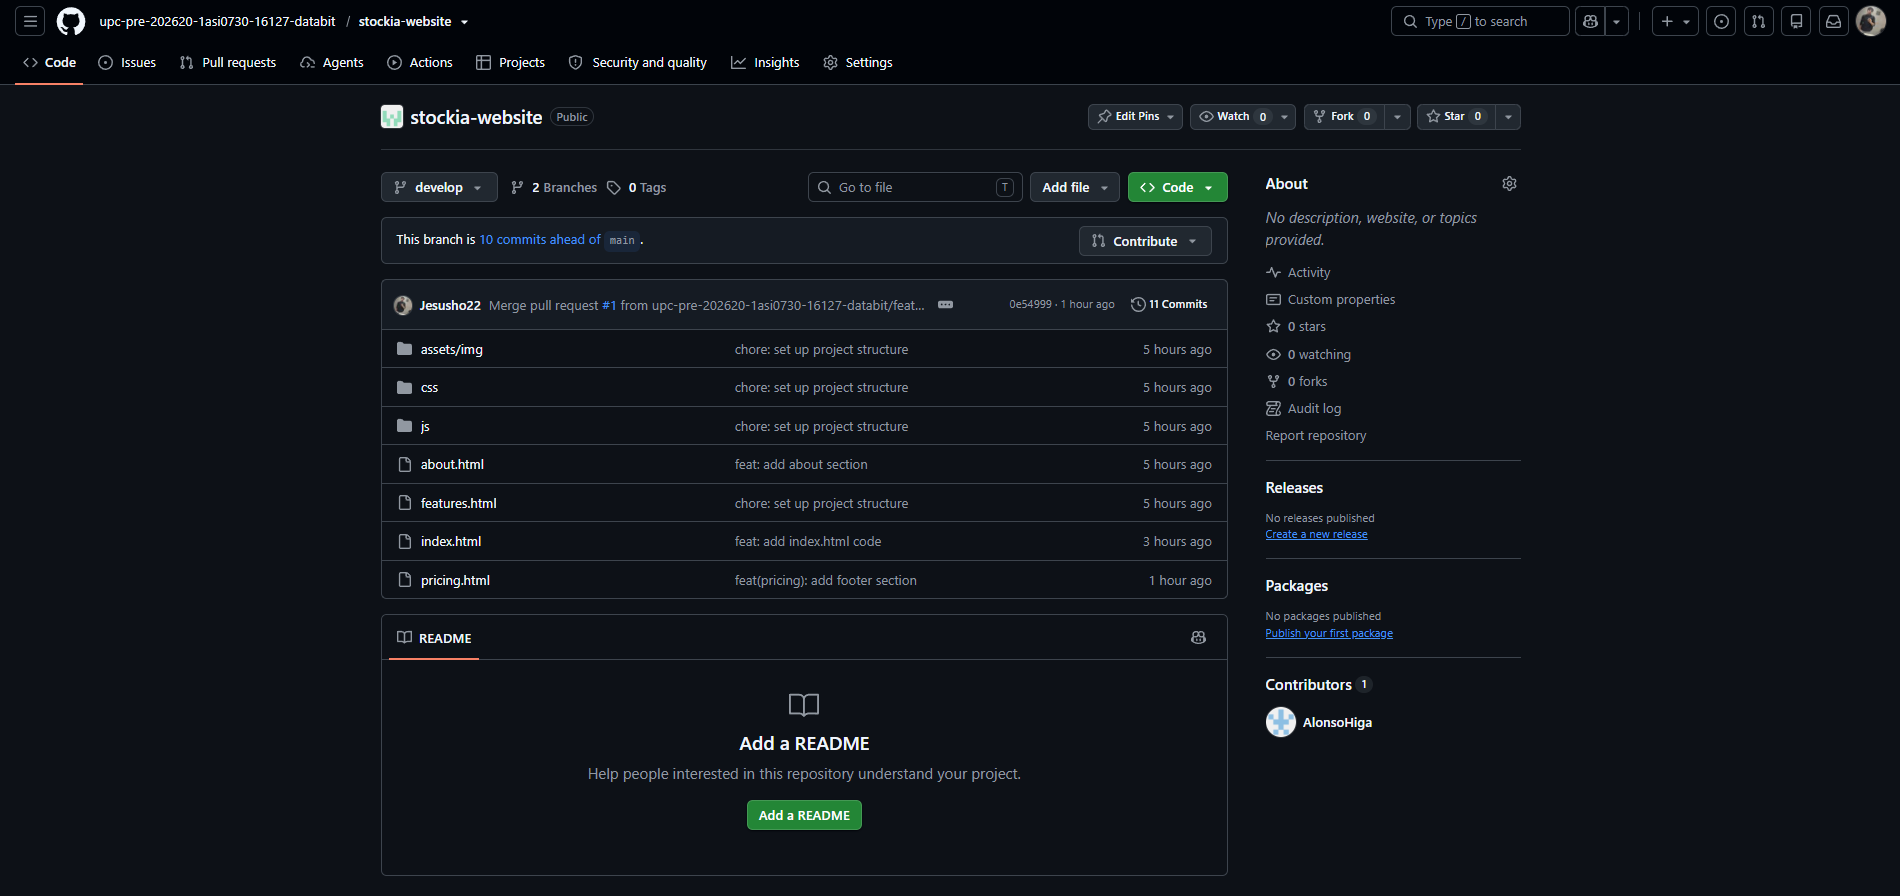
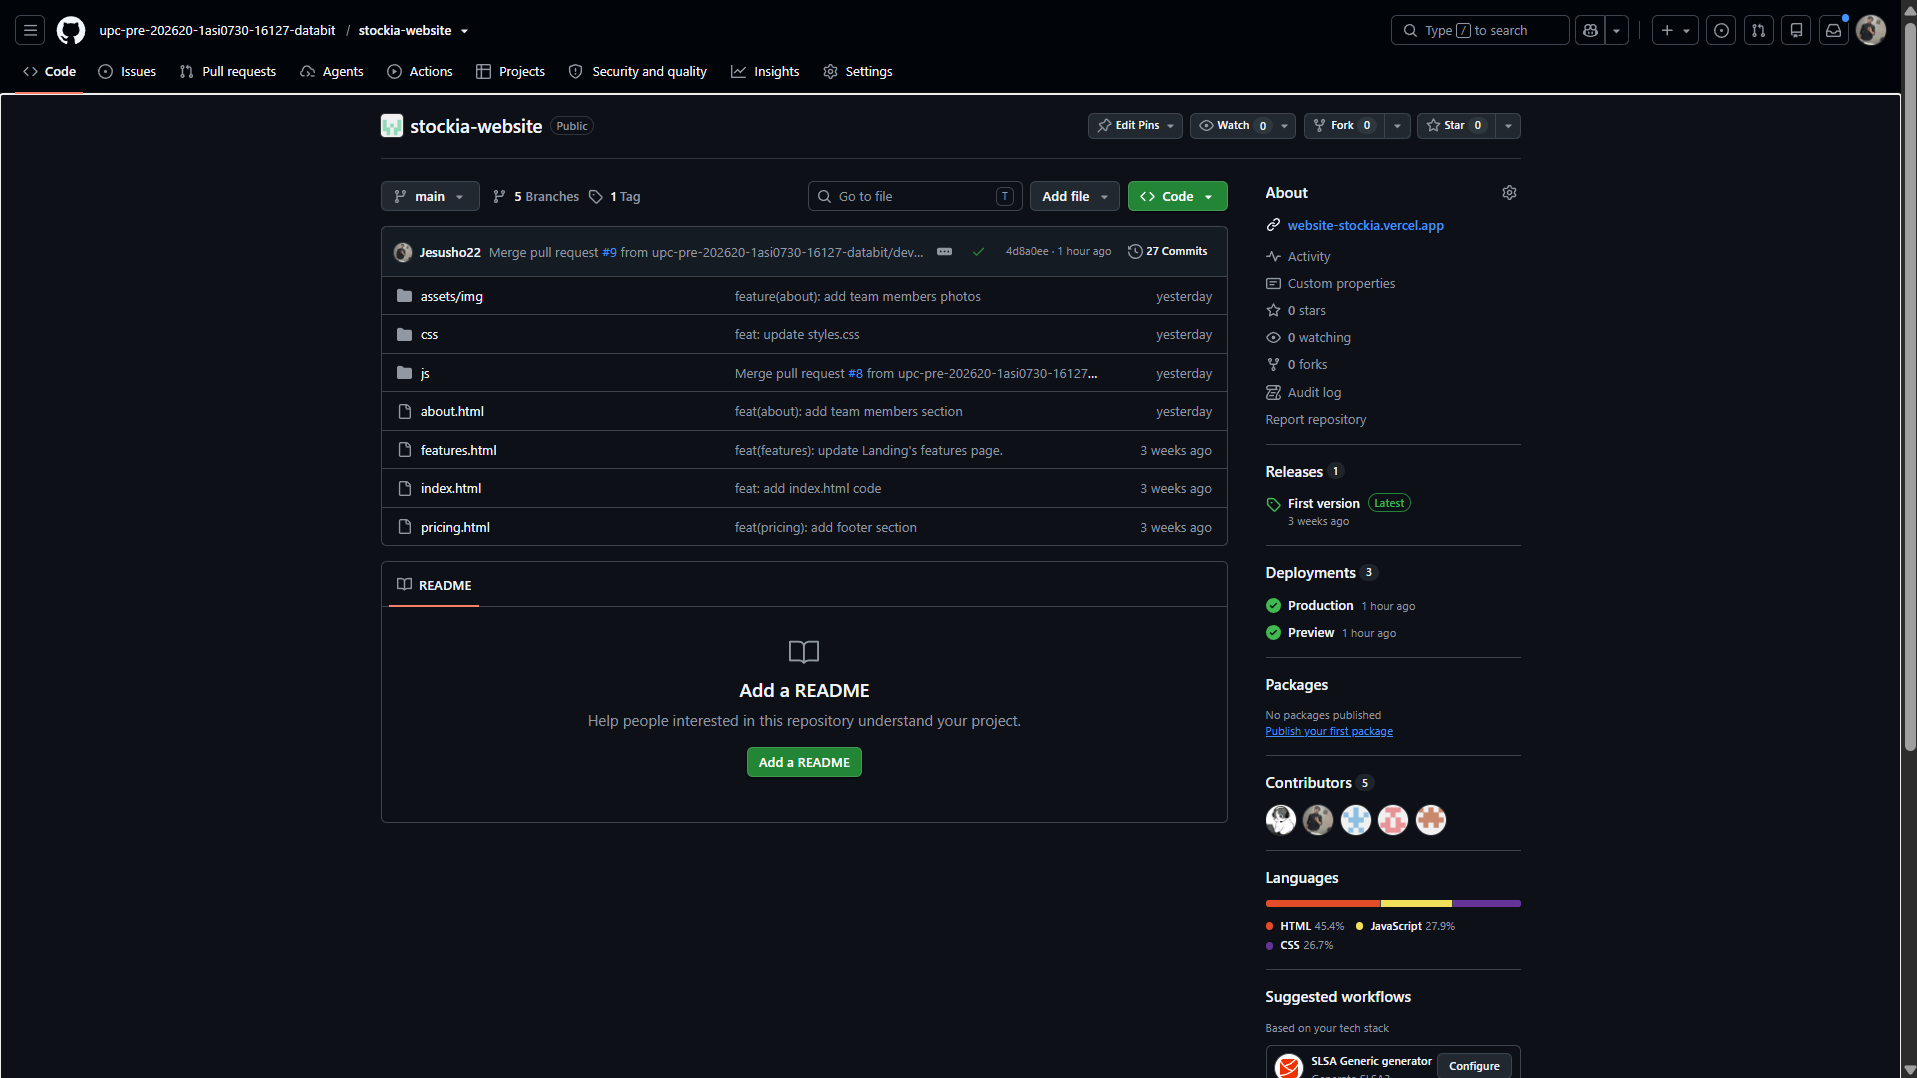
docs(chapter-5): update sprint 1 evidences

diff --git a/docs/09-chapter-5.md b/docs/09-chapter-5.md
@@ -487,165 +487,182 @@ La Landing Page se integró en el repositorio de la organización siguiendo GitF
 
 #### **5.2.1.5. Execution Evidence for Sprint Review**
 En el Sprint 1 se implementaron las cuatro páginas de la Landing Page de StockIA. A continuación se presenta cada sección publicada junto con la User Story o el requisito que la respalda:
- 
-1. **Barra de navegación (US07, US08):** menú común a las cuatro páginas con los enlaces Inicio, Características, Precios y Nosotros, el selector de idioma ES/EN y el botón "Solicitar demo".
+
+1. **Barra de navegación (US10, US13, US14):** menú común a las cuatro páginas con los enlaces Inicio, Características, Precios y Nosotros, el selector de idioma ES/EN y el botón "Solicitar demo".
 <p align="center">
   <img src="../assets/chapter-5/01-header-navbar.png" width="800" alt="Barra de navegación"/>
-  <br/><i>Barra de navegación — US07 y US08</i>
+  <br/><i>Barra de navegación — US10, US13 y US14</i>
 </p>
-2. **Hero con mockup del dashboard (US01):** propuesta de valor, CTA principal y secundario, tres indicadores clave y la vista previa ilustrativa del dashboard.
+
+2. **Hero con mockup del dashboard (US01, US02):** propuesta de valor, CTA principal y secundario y la vista previa ilustrativa del dashboard.
 <p align="center">
   <img src="../assets/chapter-5/02-hero-mockup-dashboard.png" width="800" alt="Hero con mockup del dashboard"/>
-  <br/><i>Hero con mockup del dashboard — US01</i>
+  <br/><i>Hero con mockup del dashboard — US01 y US02</i>
 </p>
-3. **Barra de estadísticas (US01, RNF07):** los cuatro indicadores de impacto y la nota que identifica las cifras referenciales.
+
+3. **Barra de estadísticas (US03, RNF08):** los cuatro indicadores de impacto y la nota que identifica las cifras referenciales.
 <p align="center">
   <img src="../assets/chapter-5/03-barra-estadisticas.png" width="800" alt="Barra de estadísticas"/>
-  <br/><i>Barra de estadísticas — US01 y RNF07</i>
+  <br/><i>Barra de estadísticas — US03 y RNF08</i>
 </p>
-4. **"¿Para quién es StockIA?" (US02):** una tarjeta para dueños y CEOs y otra para administradores y jefes de cocina.
+
+4. **"¿Para quién es StockIA?" (US04):** una tarjeta para dueños y CEOs y otra para administradores y jefes de cocina.
 <p align="center">
   <img src="../assets/chapter-5/04-para-quien-es-stockia.png" width="800" alt="Sección ¿Para quién es StockIA?"/>
-  <br/><i>Sección "¿Para quién es StockIA?" — US02</i>
+  <br/><i>Sección "¿Para quién es StockIA?" — US04</i>
 </p>
-5. **Funcionalidades del Home (US02):** seis tarjetas de funcionalidades y el botón "Ver todas las características →".
+
+5. **Funcionalidades del Home (US05):** seis tarjetas de funcionalidades y el botón "Ver todas las características".
 <p align="center">
   <img src="../assets/chapter-5/05-grid-funcionalidades.png" width="800" alt="Funcionalidades del Home"/>
-  <br/><i>Funcionalidades del Home — US02</i>
+  <br/><i>Funcionalidades del Home — US05</i>
 </p>
-6. **"Más que un inventario" (US03):** las tres tarjetas de diferenciadores de StockIA.
+
+6. **"Más que un inventario" (US06):** las tres tarjetas de diferenciadores de StockIA.
 <p align="center">
   <img src="../assets/chapter-5/06-mas-que-un-inventario.png" width="800" alt="Diferenciadores"/>
-  <br/><i>Diferenciadores — US03</i>
+  <br/><i>Diferenciadores — US06</i>
 </p>
-7. **Integraciones en evaluación (US03, RNF07):** cuatro tarjetas con la etiqueta "En evaluación" y la nota de que la integración definitiva aún no se ha elegido.
+
+7. **Integraciones en evaluación (US07, RNF08):** cuatro tarjetas con la etiqueta "En evaluación" y la nota de que la integración definitiva aún no se ha elegido.
 <p align="center">
   <img src="../assets/chapter-5/07-integraciones-externas.png" width="800" alt="Integraciones en evaluación"/>
-  <br/><i>Integraciones en evaluación — US03 y RNF07</i>
+  <br/><i>Integraciones en evaluación — US07 y RNF08</i>
 </p>
-8. **Portafolio (US03):** vistas ilustrativas de la plataforma con pestañas que resaltan la categoría activa.
+
+8. **Portafolio (US08):** vistas ilustrativas de la plataforma con pestañas Inventario e IA & IoT.
 <p align="center">
   <img src="../assets/chapter-5/08-seccion-portafolio.png" width="800" alt="Portafolio"/>
-  <br/><i>Portafolio — US03</i>
+  <br/><i>Portafolio — US08</i>
 </p>
-9. **Video del producto (US03):** bloque "Video demostrativo próximamente" sin enlaces rotos.
+
+9. **Video del producto (US09):** bloque "Video demostrativo próximamente", con el iframe de YouTube preparado para su reemplazo.
 <p align="center">
   <img src="../assets/chapter-5/09-placeholder-video.png" width="800" alt="Bloque del video del producto"/>
-  <br/><i>Bloque del video del producto — US03</i>
+  <br/><i>Bloque del video del producto — US09</i>
 </p>
-10. **features.html (US02):** detalle de los seis módulos y la sección "Cómo funciona" con cuatro pasos.
+
+10. **features.html (US11, US12):** detalle de las seis funcionalidades y la sección "Cómo funciona" con cuatro pasos.
 <p align="center">
   <img src="../assets/chapter-5/10-features-grid-completo.png" width="800" alt="features.html"/>
-  <br/><i>features.html — US02</i>
+  <br/><i>features.html — US11 y US12</i>
 </p>
-11. **pricing.html (US04, RNF07):** planes Esencial, Profesional e IoT Completo con el interruptor mensual/anual, la nota de precios de ejemplo y el acordeón de preguntas frecuentes.
+
+11. **pricing.html (US15, US16, US17, RNF08):** planes Esencial, Profesional e IoT Completo con el interruptor mensual/anual, la nota de precios de ejemplo y el acordeón de preguntas frecuentes.
 <p align="center">
   <img src="../assets/chapter-5/11-pricing-planes-y-faq.png" width="800" alt="pricing.html"/>
-  <br/><i>pricing.html — US04 y RNF07</i>
+  <br/><i>pricing.html — US15, US16, US17 y RNF08</i>
 </p>
-12. **about.html (US05, US06):** misión, visión, valores, fichas del equipo y formulario de solicitud de demo.
+
+12. **about.html (US18, US19, US20):** misión, visión, valores, fichas del equipo y formulario de solicitud de demo.
 <p align="center">
   <img src="../assets/chapter-5/12-about-mision-vision-equipo-formulario.png" width="800" alt="about.html"/>
-  <br/><i>about.html — US05 y US06</i>
+  <br/><i>about.html — US18, US19 y US20</i>
 </p>
-13. **Pie de página (US07):** columnas Producto, Empresa y Legal, comunes a las cuatro páginas.
+
+13. **Pie de página (US10, RNF03):** columnas Producto, Empresa y Legal, comunes a las cuatro páginas.
 <p align="center">
   <img src="../assets/chapter-5/13-seccion-footer.png" width="800" alt="Pie de página"/>
-  <br/><i>Pie de página — US07</i>
+  <br/><i>Pie de página — US10 y RNF03</i>
 </p>
+
 **Verificación de los requisitos no funcionales**
- 
-Los requisitos no funcionales del Sprint 1 se verificaron con el criterio medible definido en el Capítulo III:
- 
-| **RNF** | **Criterio medible** | **Herramienta de verificación** | **Evidencia** |
+
+| **RNF** | **Requisito** | **Herramienta de verificación** | **Evidencia** |
 | :--- | :--- | :--- | :--- |
-| RNF01 | Sin scroll horizontal a 360 px; breakpoints en 1024, 768 y 480 px | DevTools a 360, 768, 1024 y 1440 px | `rnf01-responsive.png` |
-| RNF02 | Contraste ≥ 4.5:1 en texto normal y ≥ 3:1 en texto grande | WebAIM Contrast Checker y Lighthouse Accessibility | `rnf02-lighthouse-accessibility.png` |
-| RNF03 | Lighthouse Performance móvil ≥ 90; LCP ≤ 2.5 s; CLS ≤ 0.1 | Lighthouse en modo móvil | `rnf03-lighthouse-performance.png` |
-| RNF04 | `title` ≤ 60 y `description` ≤ 160 caracteres, únicos por página; Lighthouse SEO ≥ 90 | Inspección del `<head>` y Lighthouse SEO | `rnf04-lighthouse-seo.png` |
-| RNF05 | Funcionamiento igual en Chrome, Edge, Firefox, Safari, Chrome Android y Safari iOS; 0 errores de consola | Matriz de pruebas manual | `rnf05-navegadores.png` |
-| RNF06 | Animaciones ≤ 500 ms; contenido visible sin IntersectionObserver | Revisión de `main.js` y prueba con el observador deshabilitado | `rnf06-animaciones.png` |
-| RNF07 | 100 % de cifras, precios y fichas de ejemplo con nota visible en ES/EN | Revisión de las cuatro páginas en ambos idiomas | Capturas 3, 7 y 11 de esta sección |
- 
+| RNF01 | Experiencia responsiva en móviles y tablets | DevTools a 390, 768, 1024 y 1440 px | `rnf01-responsive.png` |
+| RNF02 | Contraste y legibilidad accesible | WebAIM Contrast Checker y Lighthouse Accessibility | `rnf02-lighthouse-accessibility.png` |
+| RNF04 | Carga rápida del sitio estático | Lighthouse Performance en modo móvil | `rnf04-lighthouse-performance.png` |
+| RNF05 | Metadatos para buscadores | Inspección del `<head>` y Lighthouse SEO | `rnf05-lighthouse-seo.png` |
+| RNF06 | Compatibilidad con navegadores modernos | Matriz de pruebas en Chrome, Edge, Firefox y Safari | `rnf06-navegadores.png` |
+| RNF07 | Animaciones de entrada que no bloquean la interacción | Revisión de `main.js` y prueba sin IntersectionObserver | `rnf07-animaciones.png` |
+| RNF08 | Identificación del contenido pendiente | Revisión de las cuatro páginas en ES y EN | Capturas 3, 7 y 11 de esta sección |
+
 <p align="center">
   <img src="../assets/chapter-5/Lighthouse.png" width="500" alt="Reporte de Lighthouse"/>
-  <br/><i>Reporte de Lighthouse en modo móvil — RNF02, RNF03 y RNF04</i>
+  <br/><i>Reporte de Lighthouse en modo móvil — RNF02, RNF04 y RNF05</i>
 </p>
+
 Para finalizar, se muestra el repositorio de la Landing Page en la organización de GitHub:
- 
 <p align="center">
   <img src="../assets/chapter-5/14-repositorio-github.png" width="800" alt="Repositorio de la Landing Page"/>
   <br/><i>Repositorio <code>stockia-website</code> en la organización upc-pre-202620-1asi0730-16127-databit</i>
 </p>
 
 #### **5.2.1.6. Services Documentation Evidence for Sprint Review**
-La Landing Page es un sitio estático y en este Sprint no consume servicios de backend. Las interacciones que sí ejecutan lógica se resuelven en el navegador y se documentan a continuación, junto con la User Story que cubren. La recepción real de solicitudes de demo se implementará con el RESTful API.
- 
+La Landing Page es un sitio estático y en este Sprint no consume servicios de backend. Las interacciones que sí ejecutan lógica se resuelven en el navegador y se documentan a continuación, junto con la User Story que cubren.
+
 | **Endpoint / Interacción** | **Acción** | **Parámetros** | **Descripción del Response** | **User Story** |
 | :--- | :---: | :--- | :--- | :---: |
-| `about.html#contactForm` | **POST (simulado)** | `nombre`*, `restaurante`, `correo`*, `mensaje` (`*` obligatorios con `required` y `type="email"`) | El navegador bloquea el envío si falta un campo obligatorio o el correo no es válido. Con datos válidos, `preventDefault()` evita el envío real, el botón cambia a "✓ Enviado" y se deshabilita durante 3 segundos, y luego el formulario se limpia. | US06 |
-| Selector de idioma (`ES` / `EN`) | Lectura y escritura en `localStorage` | Clave `stockia-lang` con valor `es` o `en` | Aplica las traducciones a todos los elementos con `data-i18n` sin recargar la página y conserva el idioma al navegar entre páginas o volver al sitio. | US08 |
-| Interruptor mensual / anual (`pricing.html`) | Cálculo en el cliente | Estado del interruptor | Cambia los precios de S/ 0, 39 y 79 a S/ 0, 27 y 55 y viceversa, sin recargar la página. | US04 |
-| Preguntas frecuentes (`pricing.html`) | Interacción en el cliente | Pregunta seleccionada | Despliega la respuesta elegida y cierra la que estaba abierta. | US04 |
- 
+| `about.html#contactForm` | **POST (simulado)** | `nombre`*, `restaurante`, `correo`*, `mensaje` (`*` obligatorios con `required` y `type="email"`) | El navegador bloquea el envío si falta un campo obligatorio o el correo no es válido. Con datos válidos, `preventDefault()` evita el envío real, el botón cambia a "✓ Enviado" y se deshabilita durante 3 segundos, y luego el formulario se limpia. | US20 |
+| Selector de idioma (`ES` / `EN`) | Lectura y escritura en `localStorage` | Clave `stockia-lang` con valor `es` o `en` | Aplica las traducciones a todos los elementos con `data-i18n` sin recargar la página y conserva el idioma al navegar entre páginas. | US13, US14 |
+| Interruptor mensual / anual (`pricing.html`) | Cálculo en el cliente | Estado del interruptor | Cambia los precios mensuales a los anuales y viceversa, sin recargar la página. | US16 |
+| Preguntas frecuentes (`pricing.html`) | Interacción en el cliente | Pregunta seleccionada | Despliega la respuesta elegida y cierra la que estaba abierta. | US17 |
+
 * **Repositorio de la Landing Page:** https://github.com/upc-pre-202620-1asi0730-16127-databit/stockia-website
-* **Landing Page desplegada:** https://stockia-landing-giag.vercel.app/index.html
+* **Landing Page desplegada:** https://website-stockia.vercel.app/
 
 #### **5.2.1.7. Software Deployment Evidence for Sprint Review**
-La Landing Page se publicó en **Vercel** como sitio estático, servido desde su CDN global (TS04).
- 
+La Landing Page se publicó en **Vercel** como sitio estático, servido desde su CDN global, a partir del repositorio `stockia-website` de la organización.
+
 **Actividades de despliegue realizadas**
- 
-1. Se creó el proyecto en Vercel con el preset "Other", al tratarse de un sitio estático sin proceso de build.
-2. Se publicó la versión de producción desde la rama `develop` del repositorio de prototipo de la Landing Page; la vinculación del proyecto con el repositorio `stockia-website` de la organización, para el despliegue continuo, se planificó en TS08 del Sprint 2.
-3. Se verificaron las cuatro páginas (`index.html`, `features.html`, `pricing.html` y `about.html`) en el dominio público, incluidos los enlaces entre páginas y el cambio de idioma (T-TS04-2).
+
+1. Se creó el proyecto en Vercel con el preset "Other", al tratarse de un sitio estático sin proceso de build, y se vinculó al repositorio `upc-pre-202620-1asi0730-16127-databit/stockia-website`.
+2. Se activó el despliegue automático: cada cambio integrado en la rama de producción se publica sin pasos manuales, y cada Pull Request genera una URL de vista previa.
+3. Se verificaron las cuatro páginas (`index.html`, `features.html`, `pricing.html` y `about.html`) en el dominio público, incluidos los enlaces entre páginas y el cambio de idioma.
 4. Se verificó la visualización en escritorio y en móvil (RNF01).
-* **URL de la Landing Page desplegada:** https://stockia-landing-giag.vercel.app
+
+* **URL de la Landing Page desplegada:** https://website-stockia.vercel.app/
+
 **Evidencia: proyecto y despliegues en Vercel**
 <p align="center">
   <img src="../assets/chapter-5/web-despliegue.png" width="800" alt="Proyecto de la Landing Page en Vercel"/>
   <br/><i>Proyecto de la Landing Page en Vercel con el historial de despliegues</i>
 </p>
+
 **Evidencia: Landing Page desplegada en escritorio**
 <p align="center">
   <img src="../assets/chapter-5/deploy-desktop-index.png" width="500" alt="Landing Page desplegada en escritorio"/>
-  <br/><i>Landing Page desplegada — stockia-landing-giag.vercel.app</i>
+  <br/><i>Landing Page desplegada — website-stockia.vercel.app</i>
 </p>
+
 **Evidencia: Landing Page desplegada en móvil**
 <p align="center">
   <img src="../assets/chapter-5/deploy-mobile-index.png" width="200" alt="Landing Page desplegada en móvil"/>
-  <br/><i>Landing Page desplegada en móvil (390 px) — stockia-landing-giag.vercel.app</i>
+  <br/><i>Landing Page desplegada en móvil (390 px) — website-stockia.vercel.app</i>
 </p>
 
 #### **5.2.1.8. Team Collaboration Insights during Sprint**
 **Dinámica de trabajo**
- 
+
 Durante el Sprint 1 el equipo trabajó en dos frentes: la Landing Page y la documentación del informe. Las tareas se organizaron en Jira, en el proyecto SCRUM, con un responsable por tarea (ver 5.2.1.3). El código y el informe se versionaron en GitHub siguiendo GitFlow: `main` para versiones entregables, `develop` para integración y una rama `feature/*` por capítulo o página, integrada por Pull Request. La comunicación diaria se mantuvo por WhatsApp y las reuniones de coordinación por Google Meet.
- 
+
 **Aporte por integrante**
- 
+
 | **Integrante** | **GitHub** | **Aporte principal en el Sprint 1** | **Commits en `stockia-report` (al 18/09/2026)** | **Commits en `stockia-website`** |
 | :--- | :--- | :--- | :---: | :---: |
-| Higa Kohatsu, Alonso Enrique | AlonsoHiga (Alonso-Higa) | Estructura del repositorio y GitFlow (TS01), `about.html` (US05, US06) e `i18n.js` (TS03, US08); capítulos II y IV, conclusiones y bibliografía del informe | 26 | 3 |
-| Asmat Alminco, Martin Alejandro | Alemarr2 (Martin) | `features.html` (US02), responsive, contraste y SEO (RNF01, RNF02, RNF04); entrevistas, diagramas de clases, base de datos y componentes del informe | 12 | 1 |
-| Huaman Oscco, Aldo Jesus | Jesusho22 (Jesus / Aldo_Jesus) | `pricing.html` (US04, US07), despliegue en Vercel (TS04) y QA (RNF03, RNF05); capítulos III y V y wireframes y mock-up de la Landing Page en el informe | 25 | 7 |
-| Ortiz Laura, Leyla Alisson | Leylaa-O (Leyla Ortiz) | Sistema de diseño (TS02) e interacciones en `main.js` (US03, US04, US06, US07, RNF06); Impact Map, diseño UX/UI de la Web Application y sección 5.1.1 del informe | 16 | 2 |
-| Tuesta Girón, Kiara Lucia | kitu05g | `index.html` (US01, US02, US03) y contenido bilingüe; perfil, entrevistas y secciones 5.1.2 a 5.1.4 del informe | 11 | 1 |
- 
+| Higa Kohatsu, Alonso Enrique | AlonsoHiga (Alonso-Higa) | Estructura del repositorio, `about.html` (US18, US19, US20) y scripts base (RNF10, US13, US14); capítulos II y IV, conclusiones y bibliografía del informe | 26 | 3 |
+| Asmat Alminco, Martin Alejandro | Alemarr2 (Martin) | `features.html` (US11, US12); entrevistas, diagramas de clases, base de datos y componentes del informe | 12 | 1 |
+| Huaman Oscco, Aldo Jesus | Jesusho22 (Jesus / Aldo_Jesus) | `pricing.html` (US15, US16, US17) y despliegue en Vercel; capítulos III y V, wireframes y mock-up de la Landing Page en el informe | 25 | 7 |
+| Ortiz Laura, Leyla Alisson | Leylaa-O (Leyla Ortiz) | Sistema de diseño (RNF09) e interacciones (RNF07, RNF10); Impact Map, diseño UX/UI de la Web Application y sección 5.1.1 del informe | 16 | 2 |
+| Tuesta Girón, Kiara Lucia | kitu05g | `index.html` (US01 a US09); perfil, entrevistas y secciones 5.1.2 a 5.1.4 del informe | 11 | 1 |
+
 **Evidencia: contribuciones por integrante en `stockia-report`**
 <p align="center">
   <img src="../assets/chapter-5/Contributors.png" width="700" alt="Contribuciones por integrante en stockia-report"/>
   <br/><i>Contributors del repositorio stockia-report</i>
 </p>
+
 **Evidencia: contribuciones por integrante en `stockia-website`**
 <p align="center">
   <img src="../assets/chapter-5/Contributors-website.png" width="700" alt="Contribuciones por integrante en stockia-website"/>
   <br/><i>Contributors del repositorio stockia-website</i>
 </p>
+
 **Evidencia: grafo de GitFlow**
 <p align="center">
   <img src="../assets/chapter-5/Network.png" width="700" alt="Grafo de ramas de stockia-report"/>
-  <br/><i>Insights → Network: ramas feature integradas mediante Pull Request</i>
+  <br/><i>Network: ramas feature integradas mediante Pull Request</i>
 </p>
 
 ### **5.2.2. Sprint 2**
